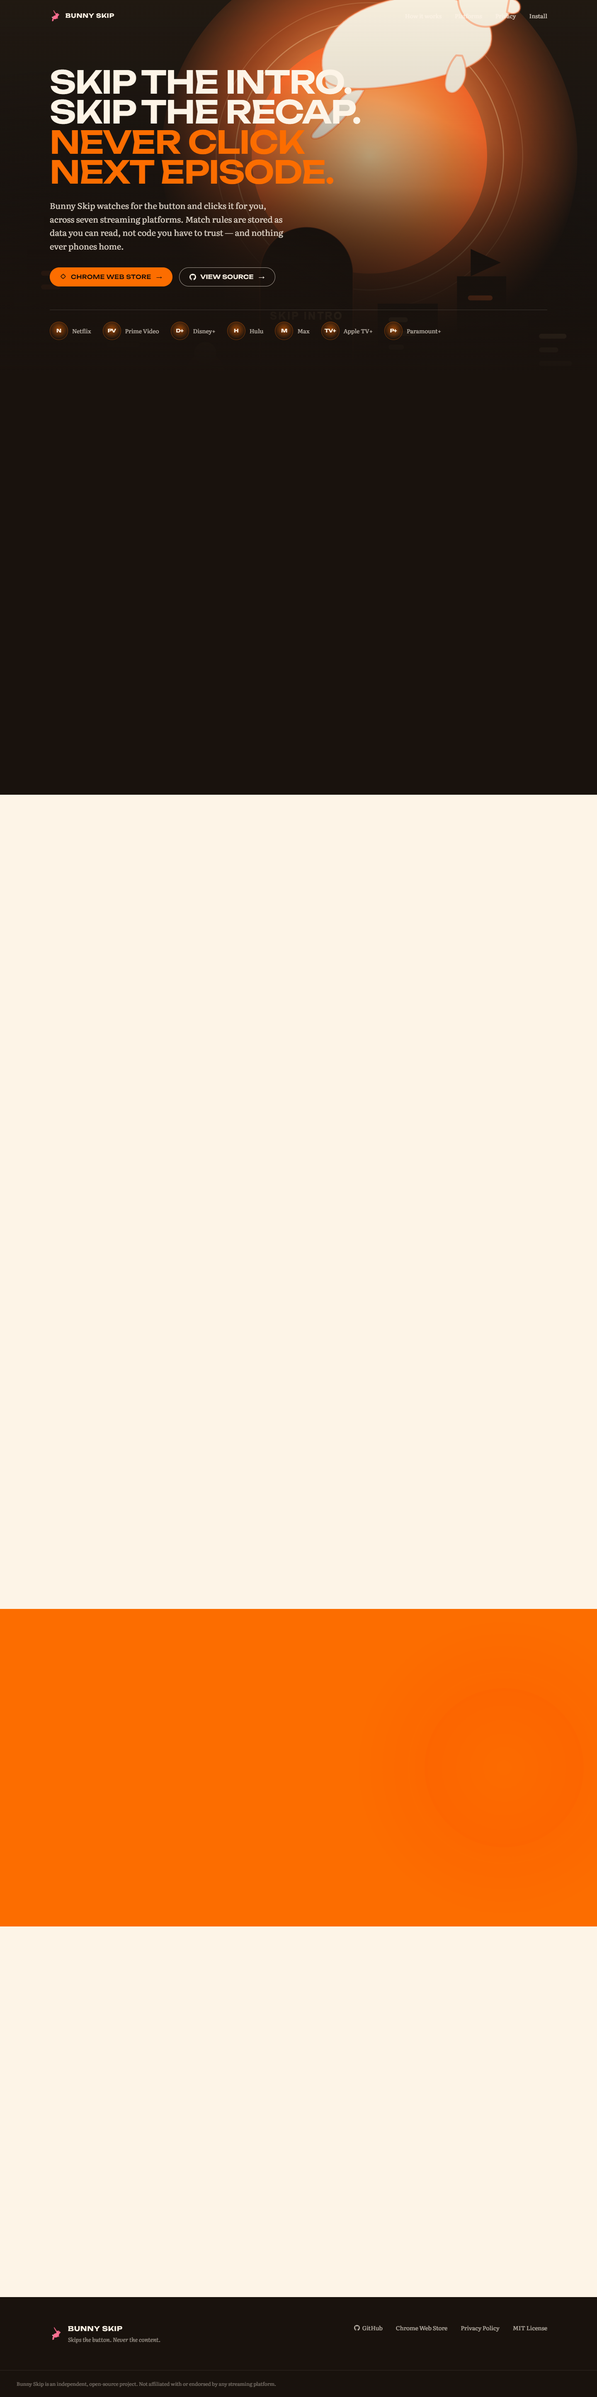
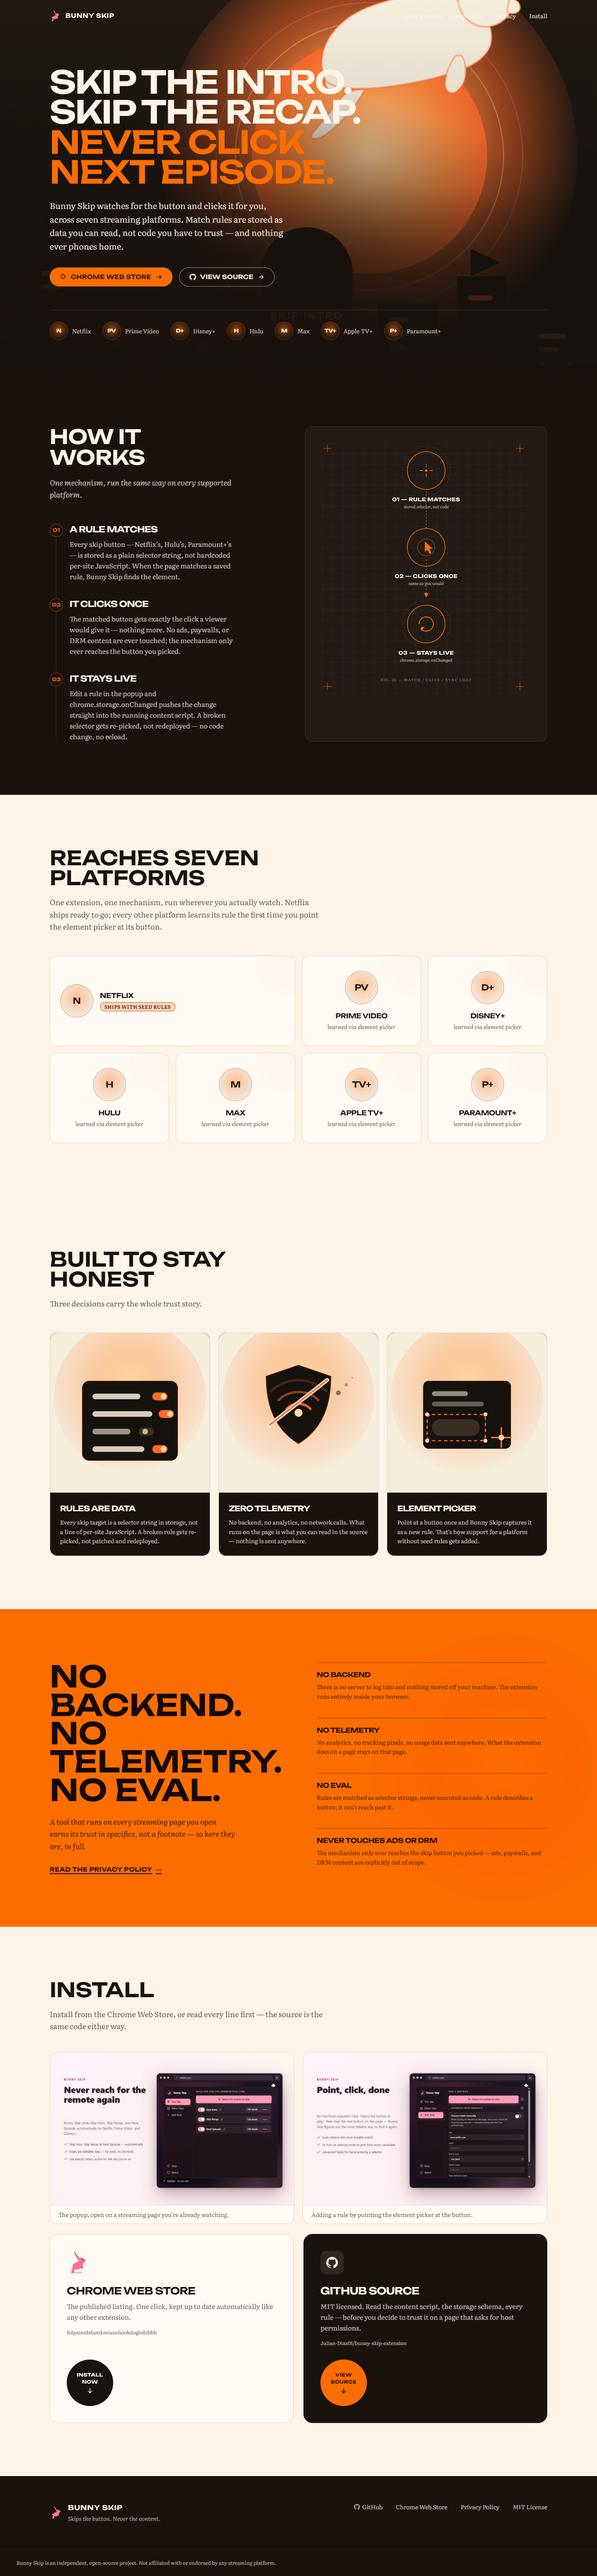
Apply round-1 review fixes: reveal-visible-by-default, contrast, landmarks, real screenshots
P0: .reveal no longer defaults to opacity:0 in CSS. useReveal now only adds
a reveal-pending class (opt-in, JS-driven) for elements not already in the
viewport on mount; CSS itself never hides content, so no-JS/reduced-motion/
pre-hydration visitors always see full page content instead of blank panels.

P1:
- Install section now displays two real product screenshots (popup on a
  streaming page, element picker adding a rule) sourced from the extension
  repo, closing the "no real screenshots ever render" gap.
- Nav and Footer link focus states now use a visible ring (focus-visible:
  ring-2 ring-sun ring-offset-2) instead of a text-color-only change.
- CtaCircle's light-tone focus ring switched from ring-sun (~2.6:1 on paper/
  card) to ring-night for sufficient contrast; dark-tone ring-sun kept.
- Raised several low-opacity utility-text values that failed 4.5:1 against
  their actual backgrounds (Install store ID and repo slug, Footer legal
  line, Platforms "learned via element picker" caption).
- Footer and Nav hoisted to be siblings of <main> (App.tsx) instead of
  nested inside it, restoring the contentinfo/banner landmark roles.

P2 (folded in, cheap while already touching these files):
- Deleted unused shadcn src/components/ui/button.tsx and card.tsx.
- Reveal.tsx spreads {...props} before className/style so explicit values
  always win.
- Nav's <nav> gained aria-label="Primary".
- html { scroll-behavior: smooth } gated behind prefers-reduced-motion:
[…]

diff --git a/src/components/sections/Install.tsx b/src/components/sections/Install.tsx
@@ -1,8 +1,23 @@
 import icon128 from "@/assets/extension/icons/icon128.png"
+import screenshotAddRule from "@/assets/extension/store-assets/screenshot-3-add-rule.png"
+import screenshotThisSite from "@/assets/extension/store-assets/screenshot-1-this-site.png"
 import { CtaCircle } from "@/components/Cta"
 import { Reveal } from "@/components/Reveal"
 import { GithubMark } from "@/components/icons/GithubMark"
 import { CHROME_STORE_ID, CHROME_STORE_URL, GITHUB_URL } from "@/lib/links"
+
+const PROOF_SHOTS = [
+  {
+    src: screenshotThisSite,
+    alt: "Real screenshot of the Bunny Skip popup open on a streaming page, showing the saved rule for the current site.",
+    caption: "The popup, open on a streaming page you're already watching.",
+  },
+  {
+    src: screenshotAddRule,
+    alt: "Real screenshot of the Bunny Skip element picker mid-selection, capturing a new skip-button rule.",
+    caption: "Adding a rule by pointing the element picker at the button.",
+  },
+]
 
 function Install() {
   return (
@@ -18,7 +33,29 @@ function Install() {
           </p>
         </Reveal>
 
-        <div className="mt-14 grid gap-6 lg:grid-cols-2">
+        <Reveal
+          delayMs={60}
+          className="mt-12 grid gap-5 sm:grid-cols-2"
+        >
+          {PROOF_SHOTS.map((shot) => (
+            <figure
+              key={shot.src}
+              className="overflow-hidden rounded-2xl border border-paper-border bg-card"
+            >
+              <img
+                src={shot.src}
+                alt={shot.alt}
+                loading="lazy"
+                className="w-full object-cover"
+              />
+              <figcaption className="border-t border-paper-border px-5 py-3 font-body text-sm text-paper-foreground/70">
+                {shot.caption}
+              </figcaption>
+            </figure>
+          ))}
+        </Reveal>
+
+        <div className="mt-6 grid gap-6 lg:grid-cols-2">
           <Reveal className="flex flex-col justify-between gap-8 rounded-3xl border border-paper-border bg-card p-8 sm:p-10">
             <div>
               <img
@@ -35,7 +72,7 @@ function Install() {
                 The published listing. One click, kept up to date
                 automatically like any other extension.
               </p>
-              <p className="mt-4 font-body text-xs text-paper-foreground/45 break-all">
+              <p className="mt-4 font-body text-xs text-paper-foreground/70 break-all">
                 {CHROME_STORE_ID}
               </p>
             </div>
@@ -62,7 +99,7 @@ function Install() {
                 every rule — before you decide to trust it on a page that
                 asks for host permissions.
               </p>
-              <p className="mt-4 font-body text-xs text-paper/45">
+              <p className="mt-4 font-body text-xs text-paper/65">
                 Julian-Diaz01/bunny-skip-extension
               </p>
             </div>

diff --git a/src/components/Cta.tsx b/src/components/Cta.tsx
@@ -4,6 +4,42 @@ import { cn } from "@/lib/utils"
 
 const EXTERNAL_PROPS = { target: "_blank", rel: "noreferrer" } as const
 
+function ArrowRightGlyph(props: React.SVGProps<SVGSVGElement>) {
+  return (
+    <svg
+      viewBox="0 0 16 16"
+      fill="none"
+      stroke="currentColor"
+      strokeWidth="1.75"
+      strokeLinecap="round"
+      strokeLinejoin="round"
+      aria-hidden="true"
+      {...props}
+    >
+      <path d="M2.5 8h11" />
+      <path d="M9 3.5 13.5 8 9 12.5" />
+    </svg>
+  )
+}
+
+function ArrowDownGlyph(props: React.SVGProps<SVGSVGElement>) {
+  return (
+    <svg
+      viewBox="0 0 16 16"
+      fill="none"
+      stroke="currentColor"
+      strokeWidth="1.75"
+      strokeLinecap="round"
+      strokeLinejoin="round"
+      aria-hidden="true"
+      {...props}
+    >
+      <path d="M8 2.5v11" />
+      <path d="M3.5 9 8 13.5 12.5 9" />
+    </svg>
+  )
+}
+
 type CtaVariant = "primary" | "secondary" | "invert" | "invert-outline"
 
 const VARIANT_CLASS: Record<CtaVariant, string> = {
@@ -49,12 +85,7 @@ function CtaLink({
     >
       {icon}
       <span>{children}</span>
-      <span
-        aria-hidden="true"
-        className="ml-0.5 transition-transform duration-200 group-hover:translate-x-0.5"
-      >
-        →
-      </span>
+      <ArrowRightGlyph className="ml-0.5 size-3.5 transition-transform duration-200 group-hover:translate-x-0.5" />
     </a>
   )
 }
@@ -77,20 +108,18 @@ function CtaCircle({
       href={href}
       className={cn(
         "group inline-flex size-28 shrink-0 flex-col items-center justify-center gap-1 rounded-full border-2 text-center font-display text-[0.7rem] font-semibold tracking-[0.06em] uppercase transition-all duration-200",
-        "focus-visible:ring-3 focus-visible:ring-sun focus-visible:outline-none",
+        "focus-visible:ring-3 focus-visible:outline-none",
         "active:translate-y-px",
         tone === "light"
-          ? "border-night bg-night text-night-foreground hover:bg-sun hover:border-sun hover:text-sun-foreground"
-          : "border-sun bg-sun text-sun-foreground hover:bg-paper hover:border-paper hover:text-night",
+          ? "border-night bg-night text-night-foreground hover:bg-sun hover:border-sun hover:text-sun-foreground focus-visible:ring-night"
+          : "border-sun bg-sun text-sun-foreground hover:bg-paper hover:border-paper hover:text-night focus-visible:ring-sun",
         className
       )}
       {...EXTERNAL_PROPS}
       {...props}
     >
       {children}
-      <span aria-hidden="true" className="text-base transition-transform duration-200 group-hover:translate-y-0.5">
-        ↓
-      </span>
+      <ArrowDownGlyph className="size-4 transition-transform duration-200 group-hover:translate-y-0.5" />
     </a>
   )
 }

diff --git a/src/hooks/use-reveal.ts b/src/hooks/use-reveal.ts
@@ -1,28 +1,39 @@
 import { useEffect, useRef, useState } from "react"
 
 /**
- * Scroll-triggered reveal. Content is visible by default (the `.reveal`
- * utility in index.css only dims/offsets it under
- * `prefers-reduced-motion: no-preference`), so this hook is a pure
- * enhancement: it just flips a class once the element crosses the viewport,
- * and does nothing harmful if IntersectionObserver is unavailable.
+ * Scroll-triggered reveal. Content is visible by default — the `.reveal`
+ * utility in index.css never sets `opacity: 0` on its own, so a visitor
+ * without JS, with `prefers-reduced-motion: reduce`, or viewing a
+ * pre-hydration/static render always sees real content, never a blank
+ * panel.
+ *
+ * Motion is an opt-in enhancement this hook applies itself: once mounted,
+ * if IntersectionObserver is available and the element isn't already in
+ * the viewport, it adds the `reveal-pending` class (hides + offsets it)
+ * and removes that class the moment the element scrolls into view. CSS is
+ * never the one reaching for `opacity: 0` — JS is the only thing that can
+ * put an element in the pending state, and it only does so for elements
+ * about to be animated in.
  */
 export function useReveal<T extends HTMLElement>(threshold = 0.2) {
   const ref = useRef<T | null>(null)
-  const [isVisible, setIsVisible] = useState(false)
+  const [isPending, setIsPending] = useState(false)
 
   useEffect(() => {
     const node = ref.current
     if (!node) return
-    if (typeof IntersectionObserver === "undefined") {
-      setIsVisible(true)
-      return
-    }
+    if (typeof IntersectionObserver === "undefined") return
+
+    const rect = node.getBoundingClientRect()
+    const alreadyInView = rect.top < window.innerHeight && rect.bottom > 0
+    if (alreadyInView) return
+
+    setIsPending(true)
 
     const observer = new IntersectionObserver(
       ([entry]) => {
         if (entry.isIntersecting) {
-          setIsVisible(true)
+          setIsPending(false)
           observer.disconnect()
         }
       },
@@ -33,5 +44,5 @@ export function useReveal<T extends HTMLElement>(threshold = 0.2) {
     return () => observer.disconnect()
   }, [threshold])
 
-  return { ref, isVisible }
+  return { ref, isPending }
 }

diff --git a/src/components/sections/Nav.tsx b/src/components/sections/Nav.tsx
@@ -10,10 +10,13 @@ const LINKS = [
 function Nav() {
   return (
     <header className="absolute inset-x-0 top-0 z-20">
-      <nav className="mx-auto flex max-w-7xl items-center justify-between px-6 py-6 sm:px-10">
+      <nav
+        aria-label="Primary"
+        className="mx-auto flex max-w-7xl items-center justify-between px-6 py-6 sm:px-10"
+      >
         <a
           href="#top"
-          className="flex items-center gap-2.5 font-display text-sm font-semibold tracking-[0.08em] text-paper uppercase"
+          className="flex items-center gap-2.5 rounded-sm font-display text-sm font-semibold tracking-[0.08em] text-paper uppercase focus-visible:outline-none focus-visible:ring-2 focus-visible:ring-sun focus-visible:ring-offset-2 focus-visible:ring-offset-night"
         >
           <img
             src={icon48}
@@ -28,7 +31,7 @@ function Nav() {
           {LINKS.map((link) => (
             <li key={link.href}>
               <a
-                className="transition-colors hover:text-sun focus-visible:text-sun focus-visible:outline-none"
+                className="rounded-sm transition-colors hover:text-sun focus-visible:text-sun focus-visible:outline-none focus-visible:ring-2 focus-visible:ring-sun focus-visible:ring-offset-2 focus-visible:ring-offset-night"
                 href={link.href}
               >
                 {link.label}

diff --git a/src/index.css b/src/index.css
@@ -216,10 +216,15 @@
   }
 
   html {
-    scroll-behavior: smooth;
     color-scheme: light;
     scrollbar-color: var(--color-sun-border) var(--color-paper-muted);
     scrollbar-width: thin;
+  }
+
+  @media (prefers-reduced-motion: no-preference) {
+    html {
+      scroll-behavior: smooth;
+    }
   }
 
   ::selection {
@@ -246,17 +251,23 @@
 }
 
 @layer utilities {
+  /*
+   * `.reveal` is visible by default — no `opacity: 0` here. Motion is an
+   * enhancement that `useReveal` opts individual elements into by adding
+   * `reveal-pending` itself (see src/hooks/use-reveal.ts); CSS never hides
+   * content on its own, so a no-JS/no-IntersectionObserver visitor and a
+   * `prefers-reduced-motion: reduce` visitor both see full content
+   * immediately.
+   */
   @media (prefers-reduced-motion: no-preference) {
     .reveal {
-      opacity: 0;
-      transform: translateY(28px);
       transition:
         opacity 0.7s cubic-bezier(0.16, 1, 0.3, 1),
         transform 0.7s cubic-bezier(0.16, 1, 0.3, 1);
     }
-    .reveal.is-visible {
-      opacity: 1;
-      transform: translateY(0);
+    .reveal.reveal-pending {
+      opacity: 0;
+      transform: translateY(28px);
     }
   }
 }

diff --git a/src/components/sections/Footer.tsx b/src/components/sections/Footer.tsx
@@ -38,7 +38,7 @@ function Footer() {
                   href={link.href}
                   target="_blank"
                   rel="noreferrer"
-                  className="inline-flex items-center gap-1.5 transition-colors hover:text-sun focus-visible:text-sun focus-visible:outline-none"
+                  className="inline-flex items-center gap-1.5 rounded-sm transition-colors hover:text-sun focus-visible:text-sun focus-visible:outline-none focus-visible:ring-2 focus-visible:ring-sun focus-visible:ring-offset-2 focus-visible:ring-offset-night"
                 >
                   {link.label === "GitHub" && (
                     <GithubMark className="size-3.5" aria-hidden="true" />
@@ -52,7 +52,7 @@ function Footer() {
       </div>
 
       <div className="border-t border-paper/10 px-6 py-6 sm:px-10">
-        <p className="font-body text-xs text-paper/40">
+        <p className="font-body text-xs text-paper/60">
           Bunny Skip is an independent, open-source project. Not affiliated
           with or endorsed by any streaming platform.
         </p>

diff --git a/index.html b/index.html
@@ -27,9 +27,13 @@
       FIRST VIEWPORT: full-bleed hero illustration under a scrim, wordmark
       nav top, an all-caps headline and serif subhead anchored bottom-left,
       dual CTA beneath it, seven-platform strip closing the fold.
-      FORM: full-bleed painterly hero over alternating light/dark panels,
+      FORM: full-bleed illustrated hero over alternating light/dark panels,
       per the pinned surface brief (route.md) — concept-seed skipped by
-      contract, brief pins the world.
+      contract, brief pins the world. (Adapted from the brief's
+      "painterly" language: no image-generation tool was available in any
+      build session, so the hero shipped as hand-authored flat vector SVG,
+      not painterly raster/brushwork. This line describes the built world,
+      not the brief's aspiration.)
       FINISH: unreviewed and undocumented is unfinished; this build ends
       with the finish review, the verdict, DESIGN.md, and every shipping
       raster carrying its provenance.

diff --git a/src/components/sections/Hero.tsx b/src/components/sections/Hero.tsx
@@ -3,7 +3,6 @@ import { CtaLink } from "@/components/Cta"
 import { ExtensionMark } from "@/components/icons/ExtensionMark"
 import { GithubMark } from "@/components/icons/GithubMark"
 import { PlatformMark } from "@/components/marks/PlatformMark"
-import { Nav } from "@/components/sections/Nav"
 import { CHROME_STORE_URL, GITHUB_URL } from "@/lib/links"
 import { PLATFORMS } from "@/lib/platforms"
 
@@ -31,8 +30,6 @@ function Hero() {
         aria-hidden="true"
         className="absolute inset-0 bg-gradient-to-t from-night via-night/15 to-transparent"
       />
-
-      <Nav />
 
       <div className="relative z-10 mx-auto flex w-full max-w-7xl flex-1 flex-col justify-end px-6 pb-16 pt-40 sm:px-10 sm:pb-20">
         <h1 className="max-w-3xl font-display text-[13vw] leading-[0.95] font-semibold tracking-tight uppercase sm:text-6xl md:text-7xl lg:text-[4.75rem]">

diff --git a/src/App.tsx b/src/App.tsx
@@ -4,19 +4,23 @@ import { Hero } from "@/components/sections/Hero"
 import { HowItWorks } from "@/components/sections/HowItWorks"
 import { Install } from "@/components/sections/Install"
 import { Manifesto } from "@/components/sections/Manifesto"
+import { Nav } from "@/components/sections/Nav"
 import { Platforms } from "@/components/sections/Platforms"
 
 function App() {
   return (
-    <main>
-      <Hero />
-      <HowItWorks />
-      <Platforms />
-      <FeatureTiles />
-      <Manifesto />
-      <Install />
+    <>
+      <Nav />
+      <main>
+        <Hero />
+        <HowItWorks />
+        <Platforms />
+        <FeatureTiles />
+        <Manifesto />
+        <Install />
+      </main>
       <Footer />
-    </main>
+    </>
   )
 }
 

diff --git a/src/components/Reveal.tsx b/src/components/Reveal.tsx
@@ -15,14 +15,18 @@ function Reveal({
   className?: string
   children: React.ReactNode
 } & React.HTMLAttributes<HTMLElement>) {
-  const { ref, isVisible } = useReveal<HTMLElement>()
+  const { ref, isPending } = useReveal<HTMLElement>()
 
   return (
     <Tag
       ref={ref}
-      className={cn("reveal", isVisible && "is-visible", className)}
-      style={delayMs ? { transitionDelay: `${delayMs}ms` } : undefined}
       {...props}
+      className={cn("reveal", isPending && "reveal-pending", className)}
+      style={
+        delayMs
+          ? { transitionDelay: `${delayMs}ms`, ...props.style }
+          : props.style
+      }
     >
       {children}
     </Tag>

diff --git a/src/components/sections/Platforms.tsx b/src/components/sections/Platforms.tsx
@@ -45,7 +45,7 @@ function Platforms() {
                     </span>
                   </p>
                 ) : (
-                  <p className="mt-1 font-body text-sm text-paper-foreground/55 italic">
+                  <p className="mt-1 font-body text-sm text-paper-foreground/70 italic">
                     learned via element picker
                   </p>
                 )}
